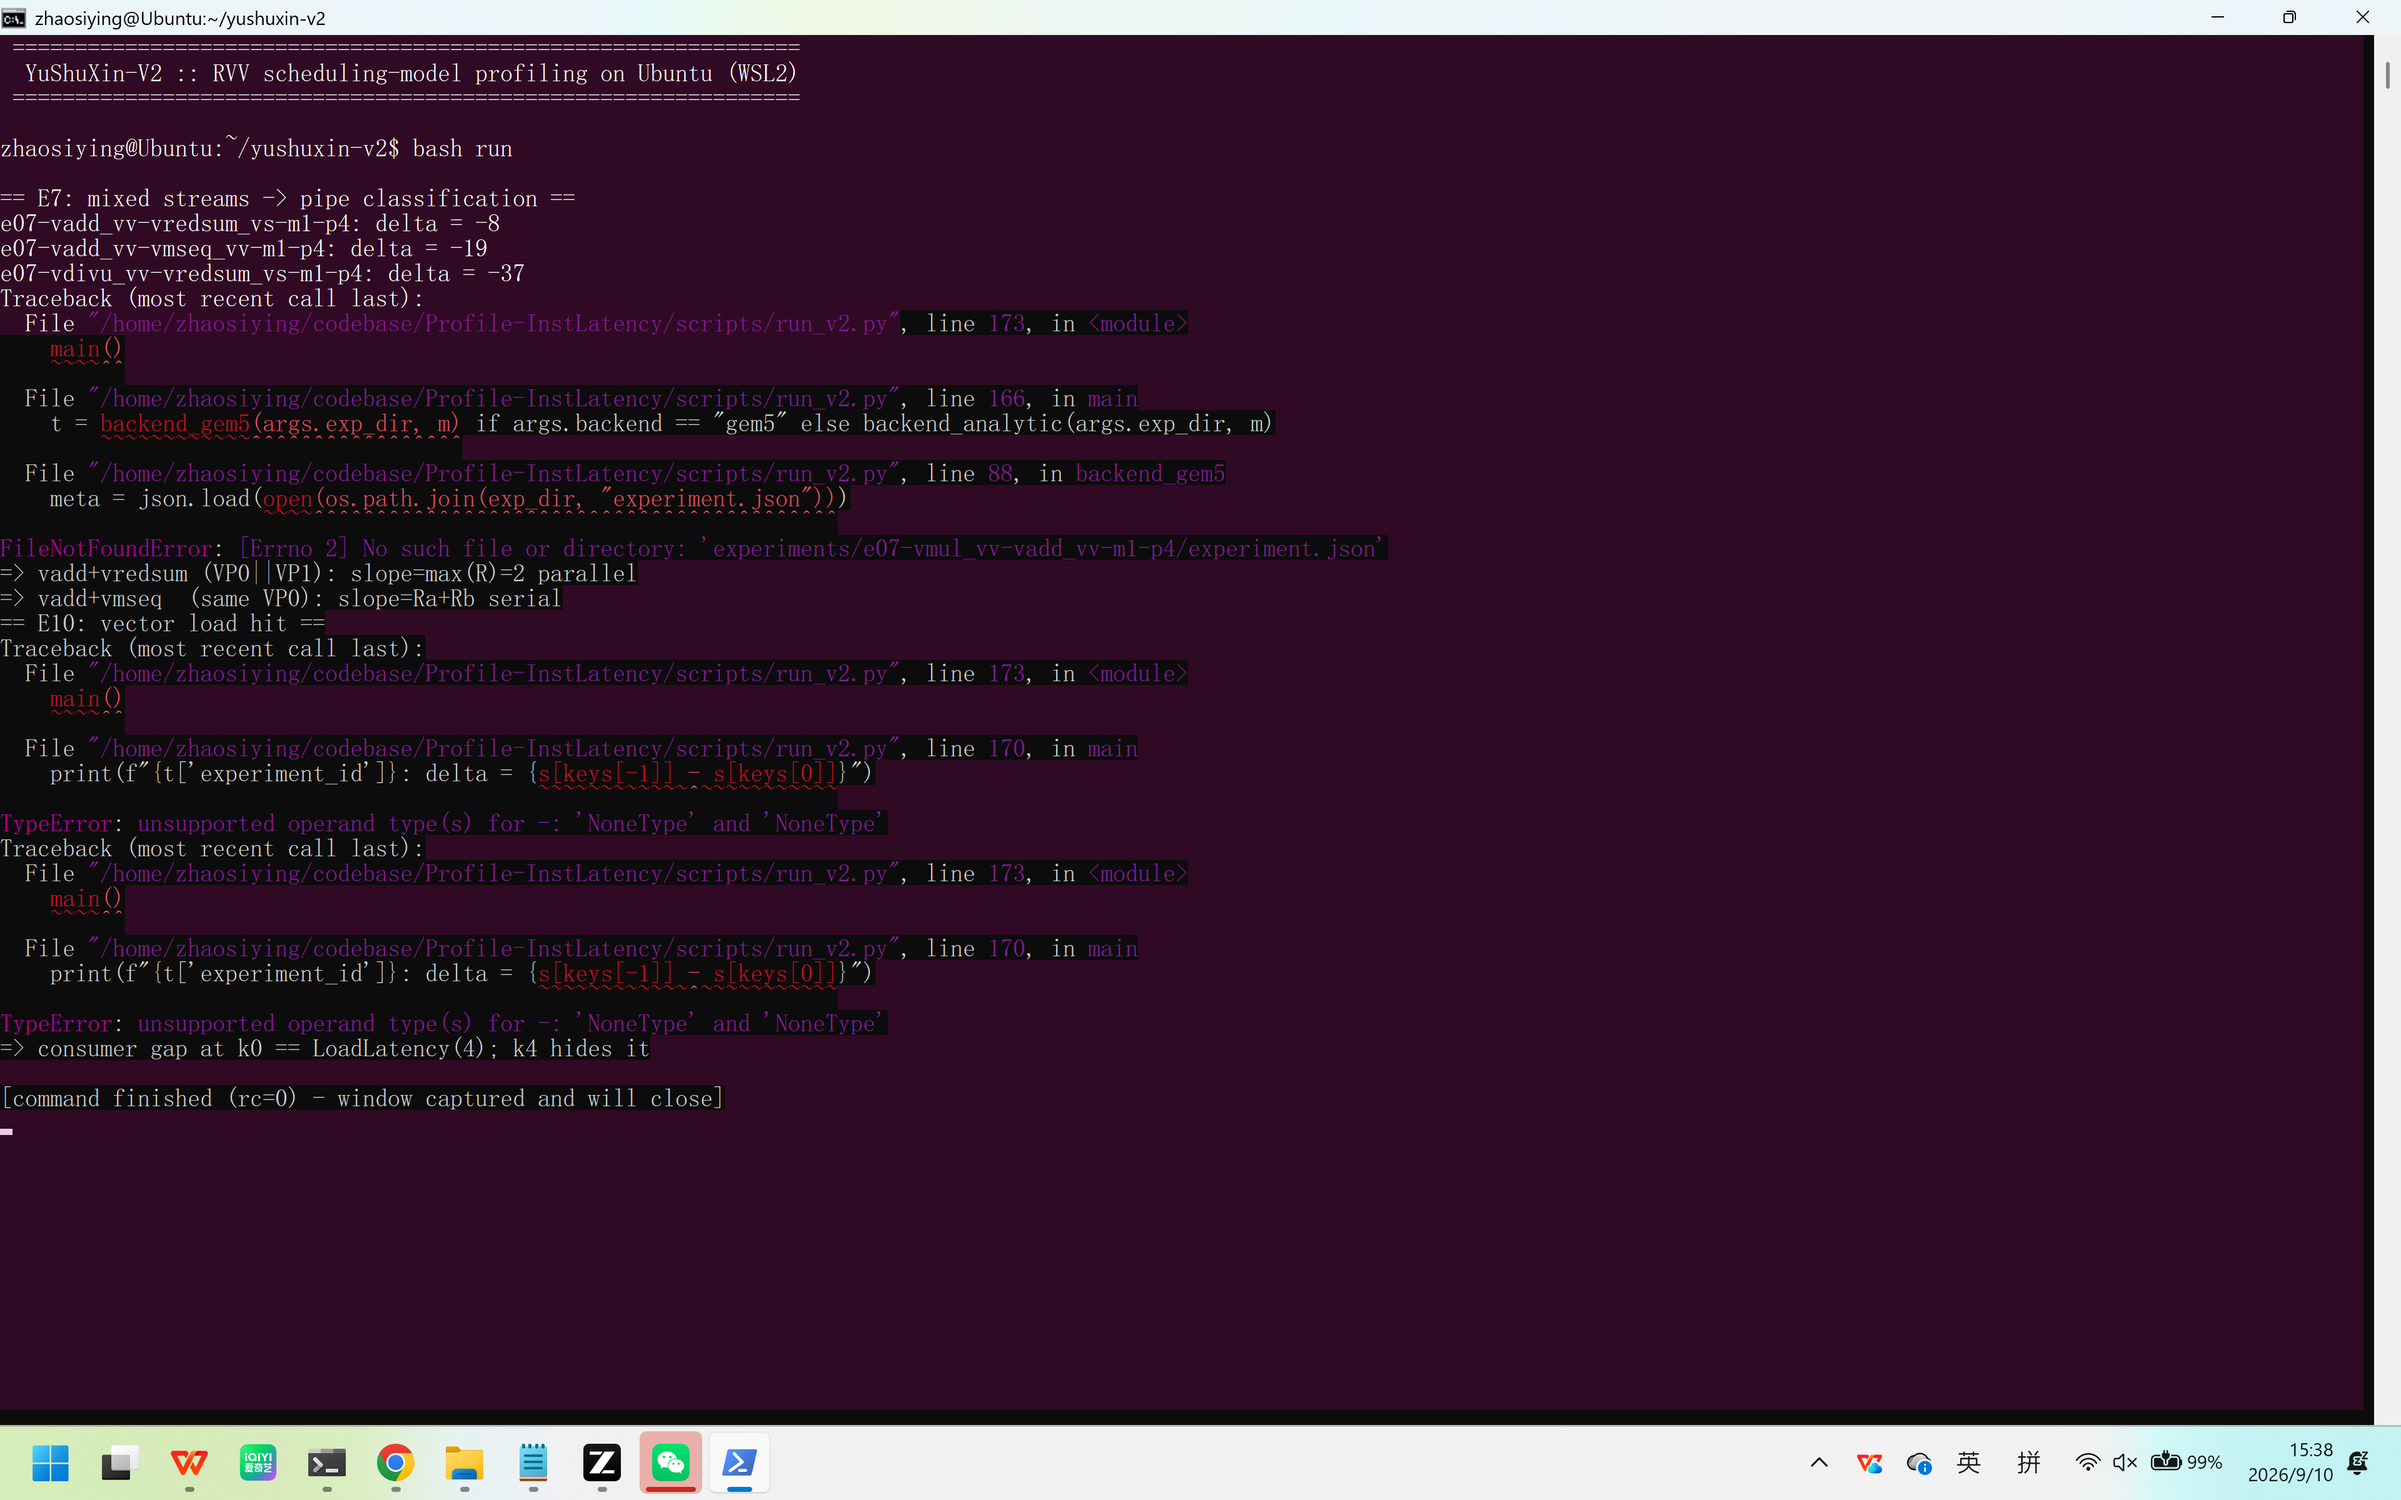
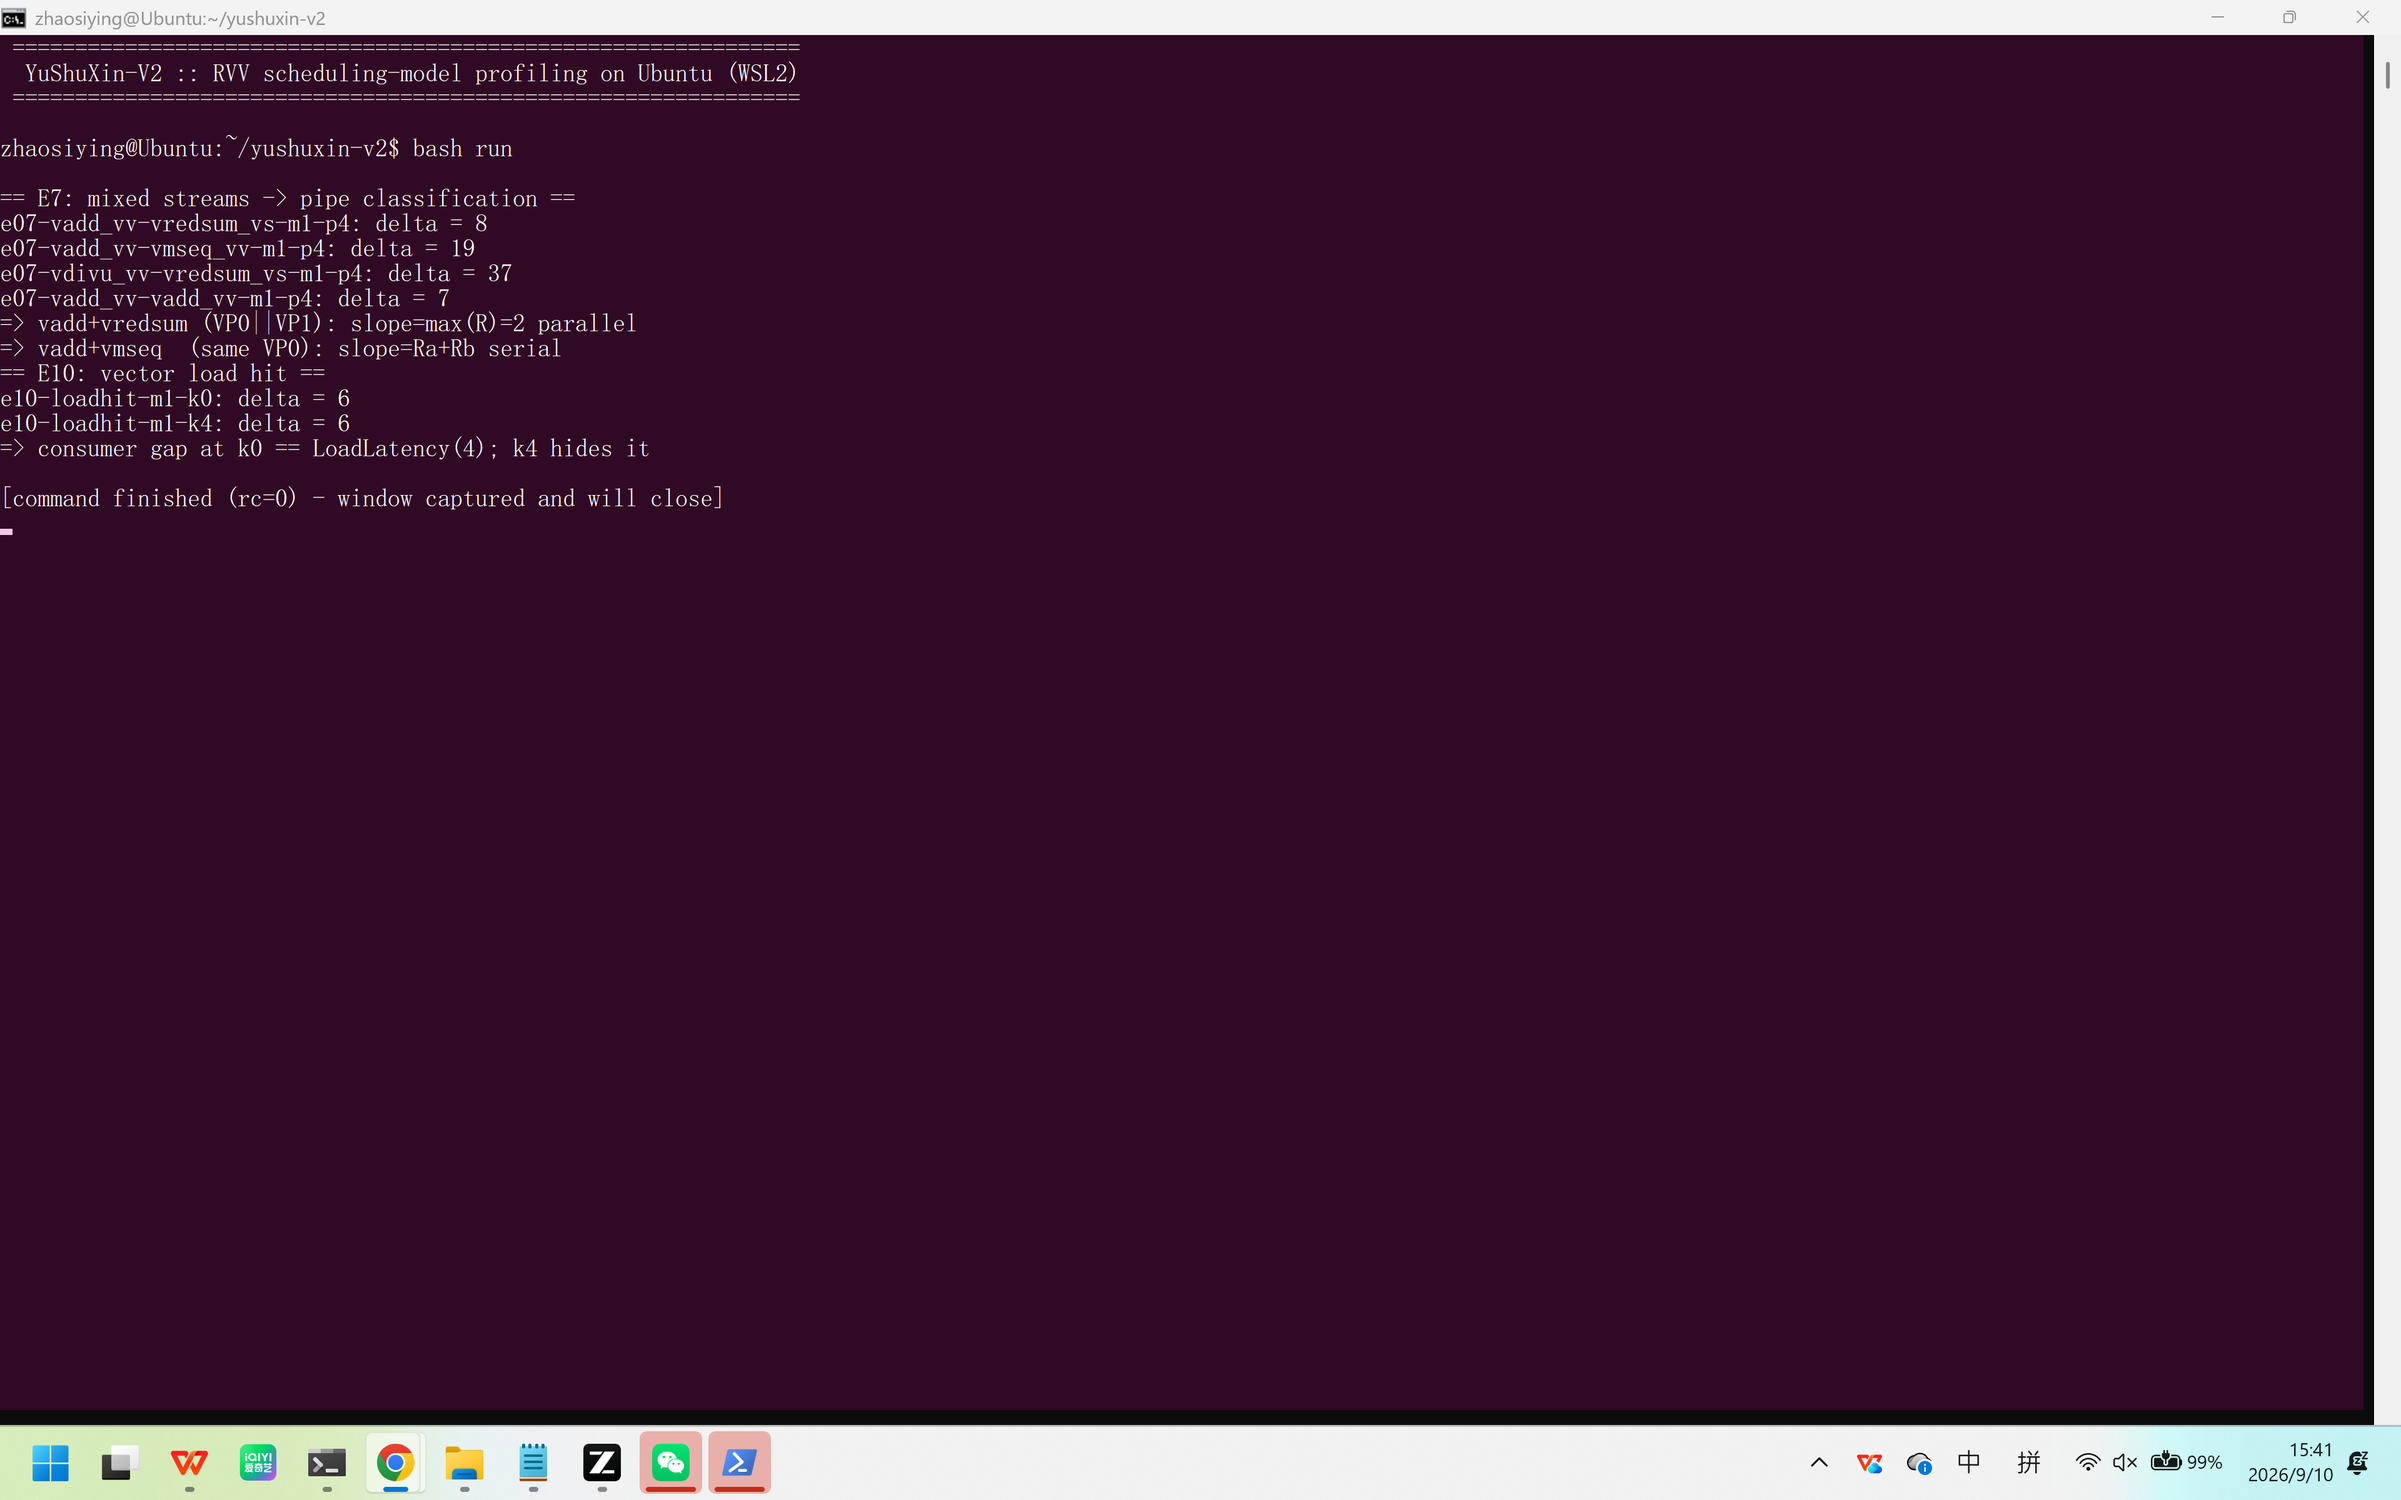
fix: positive-delta printing, restore VLSU FU (E10 loads), corrected E7 pairs + refreshed real-machine screenshots

Changed region(s): [[0.0, 0.1562, 0.5938, 0.75], [0.2812, 0.9375, 0.3438, 1.0]]

diff --git a/scripts/run_v2.py b/scripts/run_v2.py
@@ -164,10 +164,12 @@ def main():
     m = TimingModel(os.path.join(os.path.dirname(os.path.abspath(__file__)),
                                  "..", "config", "yushuxin_timing_v2.yaml"))
     t = backend_gem5(args.exp_dir, m) if args.backend == "gem5" else backend_analytic(args.exp_dir, m)
-    s = {e["marker"]: e["cycle"] for e in t["entries"]}
-    keys = sorted(s)
-    if len(keys) >= 2:
-        print(f"{t['experiment_id']}: delta = {s[keys[-1]] - s[keys[0]]}")
+    cyc = [e["cycle"] for e in t["entries"]]
+    if len(cyc) >= 2 and all(c is not None for c in cyc):
+        print(f"{t['experiment_id']}: delta = {cyc[-1] - cyc[0]}")
+    else:
+        print(f"{t['experiment_id']}: FAILED (markers missing)")
+        sys.exit(1)
 
 if __name__ == "__main__":
     main()
